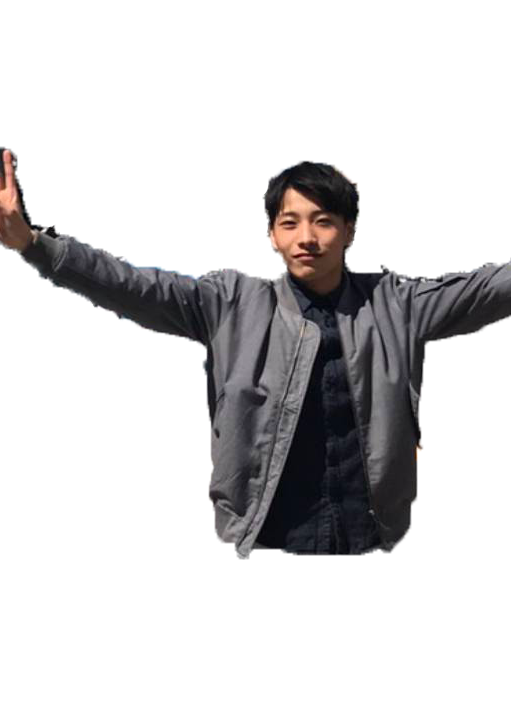
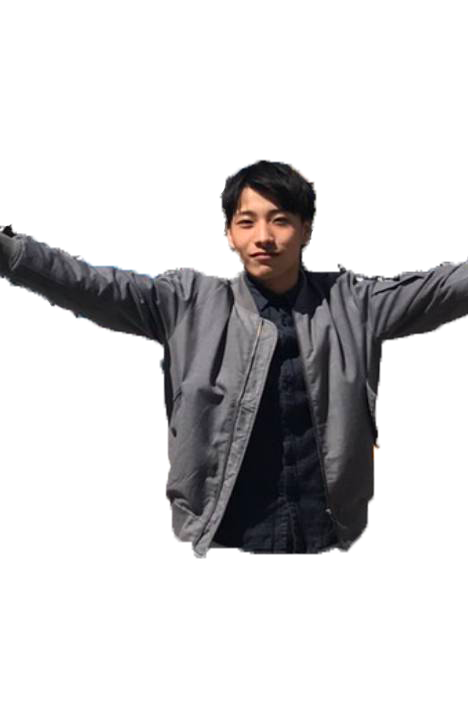
fix image

Changed region(s): [[0.0, 0.1841, 1.0, 0.7978], [0.5983, 0.6137, 0.6282, 0.675]]

diff --git a/css/main.css b/css/main.css
@@ -44,7 +44,7 @@ body{
 .card > .cart-container>.card-inner > .player-image > img{
 	display: block;
 	width: 100%;	
-	top: 5px;
+	top: -20px;
 	left: 11px;
 	position: absolute;
 }
